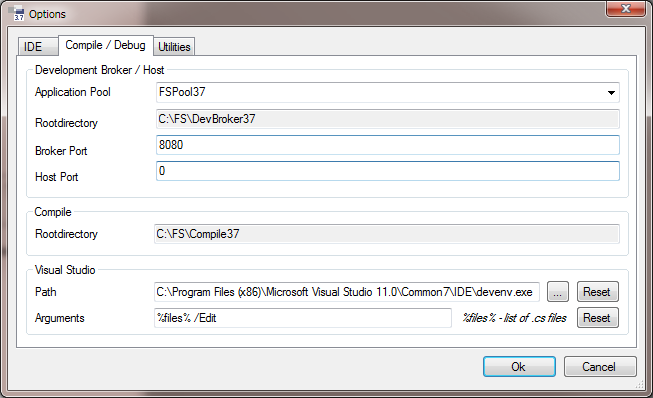
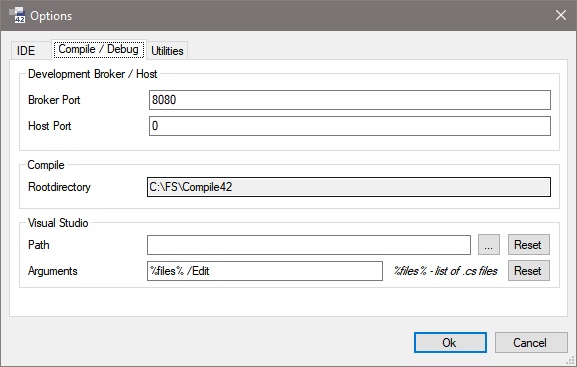
Options - "Languages in designer" mit Links auf MLKey - Fehler behoben

Changed region(s): [[0.0, 0.0, 1.0, 1.0]]

diff --git a/doc/allgemein/options.md b/doc/allgemein/options.md
@@ -6,97 +6,123 @@ Die Options können in der IDE über den Menüeintrag **Tools / Options** geöff
 
 ![Register IDE](media/options-ide.png)
 
+### Login
+
+* **Get DLLs**
+
+    Mit der Checkbox **Enable option 'Include Debug DLLs' by default** wird im Login dafür gesorgt, dass beim Get DLLs die vom Framework Compiler erzeugten Debug-Informationen gezogen werden. Das beinhaltet (soweit vorhanden) die Debug-Informationen der Basis-Packages.
+
 ### Appearance
 
-**Error Display**:
+* **Error Display**
 
-Wird die Checkbox **Legacy Error Window** gesetzt, kann erzwungen werden, dass die Errors in derselben Art und Weise ausgegeben werden, wie es bis Framework Studio 2.6 der Fall war.
+    Wird die Checkbox **Legacy Error Window** gesetzt, kann erzwungen werden, dass die Errors in derselben Art und Weise ausgegeben werden, wie es bis Framework Studio 2.6 der Fall war.
 
-**Background Image**:
+* **Background Image**
 
-Wird die Checkbox **Disable** gesetzt, wird in der Framework Studio Umgebung kein Hintergrundbild mehr angezeigt. Dies kann zu einer Performancesteigerung bei Remote Sessions beitragen (z.B. VNC).
+    Wird die Checkbox **Disable** gesetzt, wird in der Framework Studio Umgebung kein Hintergrundbild mehr angezeigt. Dies kann zu einer Performancesteigerung bei Remote Sessions beitragen (z.B. VNC).
 
-**Documentation Indicators**:
+* **Documentation Indicators**
 
-Zeigt an den Controls im Form-Designer an, ob eine Dokumentation gepflegt ist, bzw vererbt wurde.
+    Zeigt an den Controls im Form-Designer an, ob eine Dokumentation gepflegt ist, bzw vererbt wurde.
 
-![Doc Indicators](../documentation/media/documentation-indicators.png)
+    ![Doc Indicators](../documentation/media/documentation-indicators.png)
 
-**Show form designer grid**:
+* **Form Control DoubleClick**
 
-Gibt an, ob im Form-Designer das Raster-Grid angezeigt werden soll. Bei der Arbeit über Remote Desktop kann dieses Grid die Performance sehr stark verschlechtern.
+    Gibt an, was im Form-Designer passieren soll, wenn auf ein Control Strg + Doppelklick ausgeführt wird.
+
+  * RadioButton **Show Control Events**: Zeigt den Events-Dialog für das Control an. Diese Options ist sinnvoll für normale Entwickler. Der Documentation-Editor kann über das Context-Menü des Control geöffnet werden.
+
+  * RadionButton **Show Documentation**: Zeigt den Documentation-Editor für das Control an. Diese Option ist sinnvoll für Benutzer, die viel an Dokumantationen arbeiten. Die Control-Events können über das Context-Menü des Control geöffnet werden.
+
+* **Show form designer grid**
+
+    Gibt an, ob im Form-Designer das Raster-Grid angezeigt werden soll. Bei der Arbeit über Remote Desktop kann dieses Grid die Performance sehr stark verschlechtern.
+
+* **Languages in designer**
+
+    Hier können die Sprachen eingestellt werden, die in den [MLStrings](../mlkey/mlstring.md) und im [Wörterbuch](../mlkey/woerterbuch.md) angeboten werden sollen. Die Reihenfolge wird - sofern dies möglich ist - von den Designer-Fenstern berücksichtigt.
+
+    Es werden kommasepariert die Iso-Codes der Sprachen angegeben - z.B. `de,en,fr`.
+
+    Wird keine Angabe gemacht, werden in allen Designer-Fenstern immer alle verfügbaren Sprachen angeboten.
 
 ### Code Editor
 
-**Font Family**:
+* **Font Family**
 
-Hier können Schriftart und -größe für den Code-Editor angepasst werden.
+    Hier können Schriftart und -größe für den Code-Editor angepasst werden.
 
-**Context Tooltip**:
+* **Go to Definition with Ctrl+DoubleClick**
 
-Gibt an, ob im Code-Editor Informationen zu Elementen angezeigt werden sollen, wenn mit der Maus auf Code-Teile gezeigt wird.
+    Schaltet im Code-Editor die Funktion **Go to Definition** (F12) mit Strg + Doppelklick ein. Es kann sinnvoll sein, diese Funktion zu deaktivieren, wenn man diese Funktion öfters aus Versehen auslöst. Dann bleibt immer noch die F12-Taste oder das Context-Menü zum Aufruf dieser Funktion.
+
+* **Context Tooltip**
+
+    Gibt an, ob im Code-Editor Informationen zu Elementen angezeigt werden sollen, wenn mit der Maus auf Code-Teile gezeigt wird.
 
 ## Compile / Debug (Registerkarte)
 
 ![Register Compile](media/options-compile.png)
 
-**Application Pool**:
+* **Broker Port**
 
-Gibt den Application-Pool im IIS an, in dem der Development-Broker laufen soll. Beim Starten von Applications aus Framework Studio heraus werden im IIS automatisch virtuelle Verzeichnisse erzeugt. Diesen wird der hier angegebene Application-Pool zugewiesen.
+    Standard Broker Port. Wird `0` eingetragen, wird automatisch ein freier Port genutzt.
 
-**Broker Rootdirectory**:
+* **Host Port**
 
-Gibt an, unter welchem Ordner Framework Studio die Verzeichnisse für den Development-Broker erzeugen soll. Diese Einstellung wird automatisch von Framework Studio gesetzt und kann nicht geändert werden.
+    Standard Broker Port. Wird `0` eingetragen, wird automatisch ein freier Port genutzt.
 
-**Broker Port**:
+* **Compile Rootdirectory**
 
-Standard Broker Port. Wird `0` eingetragen, wird automatisch ein freier Port genutzt.
+    Gibt an, unter welchem Ordner Framework Studio die Compile-Verzeichnisse erzeugen soll. Diese Einstellung muss manuell in der Datei `FrameworkStudio.exe.config` angepasst werden.
 
-**Host Port**:
+    Beispiel:
 
-Standard Broker Port. Wird `0` eingetragen, wird automatisch ein freier Port genutzt.
+    ```xml
+    <configuration>
+        <appSettings>
+            <add key="CompileBaseDirectory" value="C:\FS\Compile42" />
+            [...]
+    ```
 
-**Compile Rootdirectory**:
+* **Visual Studio Path**
 
-Gibt an, unter welchem Ordner Framework Studio die Compile-Verzeichnisse erzeugen soll. Diese Einstellung muss manuell in der Datei FrameworkStudio_3_X.exe.config angepasst werden.
+    Hier kann angegeben werden, wo Visual Studio installiert ist. Die aktuell von Framework Studio unterstützten Versionen von Visual Studio werden automatisch erkannt. Wenn eine andere Version oder Edition (z.B. Visual Studio Express) verwendet werden soll, kann das entsprechende Programm angegeben werden.
 
-**Visual Studio Path**:
+    Mit dem Button **Reset** wird der Wert auf die Original-Einstellung zurückgesetzt. Diese Einstellung wird für das Menu **View /  Compiled Code in Visual Studio** in den Designer-Fenstern verwendet.
 
-Hier kann angegeben werden, wo Visual Studio installiert ist. Die aktuell von Framework Studio unterstützten Versionen von Visual Studio werden automatisch erkannt. Wenn eine andere Version oder Edition (z.B. Visual Studio Express) verwendet werden soll, kann das entsprechende Programm angegeben werden.
+    Außerdem wird der Ordner aus dieser Einstellung verwendet, um für die Arbeit mit Services das Programm WcfTestClient.exe zu finden.
 
-Mit dem Button **Reset** wird der Wert auf die Original-Einstellung zurückgesetzt.
-Diese Einstellung wird für das Menu **View /  Compiled Code in Visual Studio** in den Designer-Fenstern verwendet.
+* **Visual Studio Arguments**
 
-Außerdem wird der Ordner aus dieser Einstellung verwendet, um für die Arbeit mit Services das Programm WcfTestClient.exe zu finden.
+    Hier können die Kommandozeilen-Argumente für das Öffnen der Quellcode-Dateien angegeben werden. Beim Einsatz von Visual Studio können die Standard-Einstellungen `%file% /Edit` beibehalten werden.
 
-**Visual Studio Arguments**:
-
-Hier können die Kommandozeilen-Argumente für das Öffnen der Quellcode-Dateien angegeben werden. Beim Einsatz von Visual Studio können die Standard-Einstellungen `%file% /Edit` beibehalten werden.
-
-Der Platzhalter `%file%` steht für die zu öffnenden Dateien. Dieser werden in dem Format `"Datei1.cs" "Datei2.cs"…` übergeben. Wenn dieser Platzhalter nicht angegeben ist, dann werden die Dateien an der Parameter gestellt.
+    Der Platzhalter `%file%` steht für die zu öffnenden Dateien. Dieser werden in dem Format `"Datei1.cs" "Datei2.cs"…` übergeben. Wenn dieser Platzhalter nicht angegeben ist, dann werden die Dateien an der Parameter gestellt.
 
 ## Utilities (Registerkarte)
 
 ![Register Utilities](media/options-utilities.png)
 
-**SvcUtil**:
+* **SvcUtil**
 
-Gibt den Pfad zur SvcUtil.exe des Windows SDK an. Diese wird für die Generierung des Services verwendet.
+    Gibt den Pfad zur SvcUtil.exe des Windows SDK an. Diese wird für die Generierung des Services verwendet.
 
-**InstallUtil**:
+* **InstallUtil**
 
-Gibt den Pfad zur InstallUtil.exe des .NET-Frameworks an.
+    Gibt den Pfad zur InstallUtil.exe des .NET-Frameworks an.
 
-**Crystal Report Designer**:
+* **Crystal Report Designer**
 
-Gibt den Pfad zum Crystal Report Designer an.
+    Gibt den Pfad zum Crystal Report Designer an.
 
-**Diff Tool**:
+* **Diff Tool**
 
-Hier kann die ausführbare Datei für das Diff Tool angegeben werden.
+    Hier kann die ausführbare Datei für das Diff Tool angegeben werden.
 
-**Diff Tool Data Dir**:
+* **Diff Tool Data Dir**
 
-Hier kann das Datenverzeichnis für das Diff Tool angegeben werden.
+    Hier kann das Datenverzeichnis für das Diff Tool angegeben werden.
 
 Mit dem Button [...]  kann jeweils ein Dateiauswahldialog geöffnet werden.

diff --git a/doc/mlkey/woerterbuch.md b/doc/mlkey/woerterbuch.md
@@ -16,7 +16,7 @@ Die Bearbeitung des Wörterbuchs erfolgt über den **Multilanguage Text Editor**
 
 ![ML-Editor](media/ml-editor.png)
 
-Die im Grid angezeigten Sprachen und deren Reihenfolge können in den **Options** mit der Einstellung **Languages in designer** eingestellt werden.
+Die im Grid angezeigten Sprachen und deren Reihenfolge können in den [Options](../allgemein/options.md) mit der Einstellung **Languages in designer** eingestellt werden.
 
 Die Bearbeitung des Wörterbuchs funktioniert ohne Checkout-Mechanismus. Wenn mehrere Benutzer zur gleichen Zeit an denselben MLKeys arbeiten sollten, dann gewinnt derjenige, der zuletzt den Button **Save** drückt.
 
@@ -75,6 +75,8 @@ Mit dem Button **Add** öffnet sich ein Dialog, in dem der neue MLKey erfasst we
 * **German**: Die Eingabe eines deutschen Textes ist Pflicht, weil Deutsch immer der letzte Fallback ist, wenn eine Fremdsprache nicht gepflegt ist.
 
 * **Fremdsprachen**: Über die Radio-Buttons kann festgelegt werden, welche Sprache im 2. Textfeld angezeigt oder bearbeitet werden soll. Diese Texte sind optional.
+
+  Die angebotenen Fremdsprachen und deren Reihenfolge kann in den [Options](../allgemein/options.md) mit der Einstellung **Languages in designer** eingestellt werden. **German** lässt sich in diesem Dialog aber nicht steuern - diese Sprache wird immer im separaten Feld angezeigt.
 
   In der **eNVenta/WS** Standard-Entwicklung muss der englische Text gepflegt werden.
 
